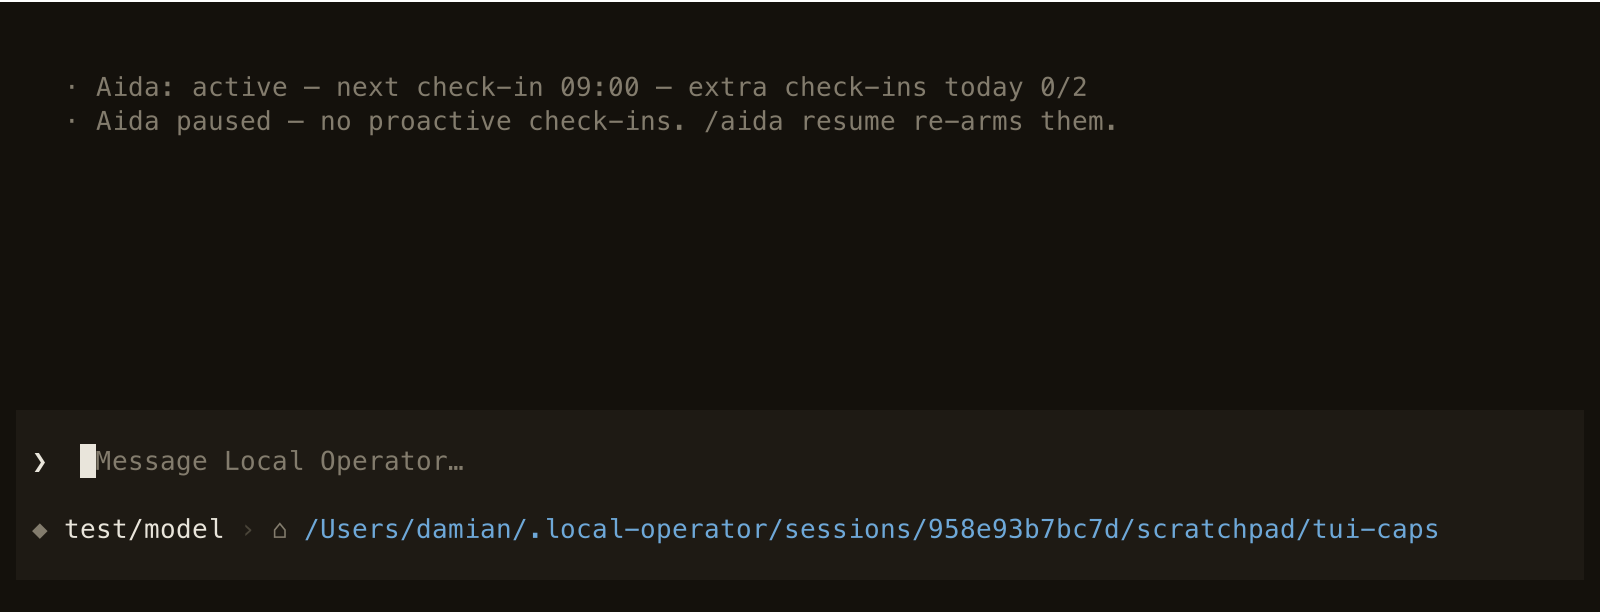
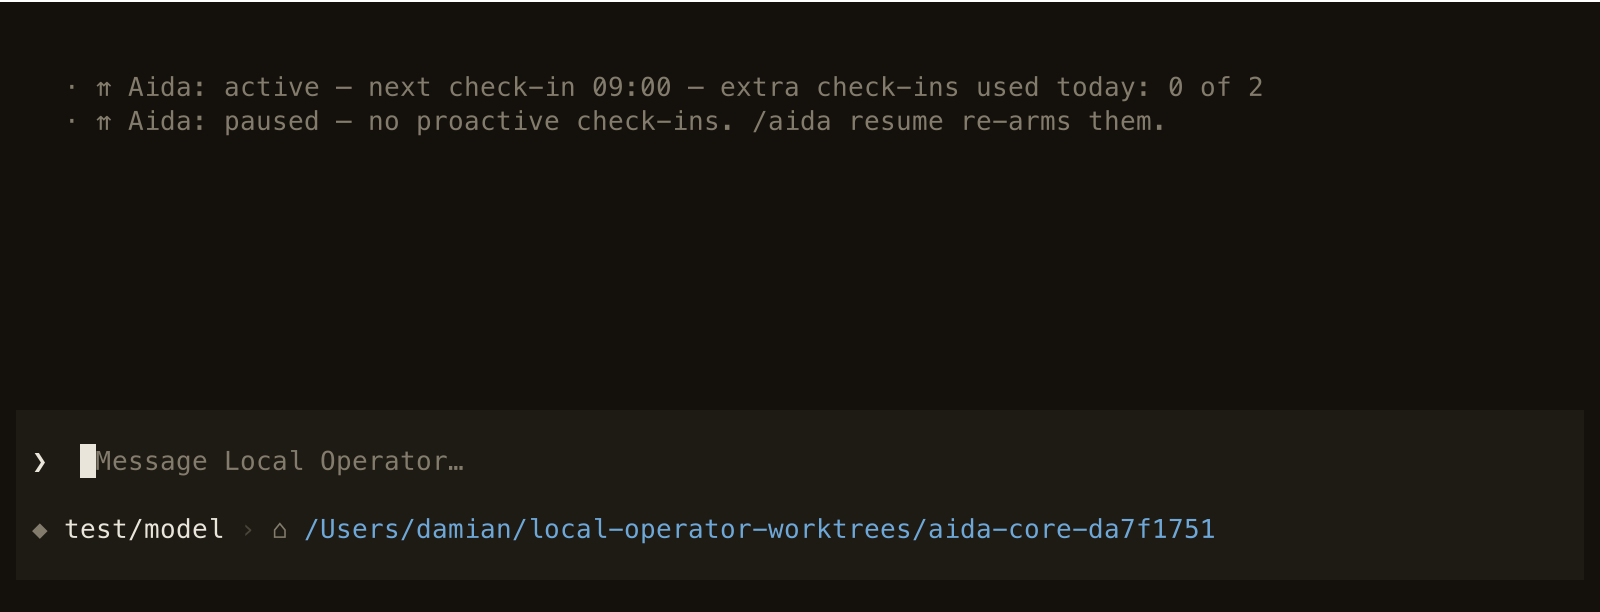
fix(site): batch-2 findings — hero CLS, body-start focus chain, Aida paused frame
- Figure gains optional width/height; the home hero renders 1280x900 for both
  theme variants so the box is reserved before the file arrives (U9): CLS
  0.288 desktop / 0.074 mobile → 0 on both widths, unthrottled and throttled.
- Search triggers register `data-search-trigger`; palette/shortcuts closes
  fall back to the visible trigger when the opening chain started from <body>
  (⌘K→Esc, ⌘K→shortcuts→Esc, ?→Esc now land on a control, not BODY) (Q3).
- aida-paused.png recaptured from feat/aida-core tip 8a1b2f828 ("extra
  check-ins used today: 0 of 2"); alt text follows the frame.

Gates: pnpm lint (biome + check-design-system) clean, pnpm check-types clean,
pnpm test 67/67, pnpm build 45/45.

Changed region(s): [[0.3438, 0.8382, 0.9062, 0.9003], [0.0625, 0.1242, 0.8125, 0.1552], [0.0625, 0.1863, 0.7188, 0.2173]]

diff --git a/src/components/search/search-provider.tsx b/src/components/search/search-provider.tsx
@@ -43,6 +43,27 @@ export function useSearch(): SearchContextValue {
 
 /** Chord map: key -> destination. `""` slug means the home page. */
 
+/**
+ * The registered search control — the fallback focus target for a close whose
+ * opening chain began with focus on <body> (⌘K or `?` on a fresh page). There
+ * is no opener to hand focus back to, and Radix's own default lands on <body>,
+ * which restarts the next Tab from the skip link. Trade-off: for those chains
+ * focus travels to the top bar even if the user's attention was elsewhere — a
+ * fixed, visible control is the most sensible reconstruction once focus left
+ * the page, and it beats a close that leaves the keyboard nowhere to go
+ * (QA round 2, Q3).
+ */
+function searchTriggerElement(): HTMLElement | null {
+	const candidates = Array.from(
+		document.querySelectorAll<HTMLElement>("[data-search-trigger]"),
+	);
+	return (
+		candidates.find((element) => element.getBoundingClientRect().width > 0) ??
+		candidates[0] ??
+		null
+	);
+}
+
 function isTypingTarget(target: EventTarget | null): boolean {
 	if (!(target instanceof HTMLElement)) return false;
 	const tag = target.tagName;
@@ -208,19 +229,25 @@ export function SearchProvider({
 					router.push(href);
 				}}
 				toast={showToast}
-				returnFocus={() => paletteReturn.current}
+				returnFocus={() =>
+					paletteReturn.current?.isConnected
+						? paletteReturn.current
+						: searchTriggerElement()
+				}
 			/>
 			<ShortcutsDialog
 				open={shortcutsOpen}
 				onOpenChange={setShortcutsOpen}
-				returnFocus={() =>
+				returnFocus={() => {
 					// Opened from the palette, its own remembered control is the
 					// palette's button, which is already unmounted — fall back to
-					// whatever opened the palette.
-					shortcutsReturn.current?.isConnected
-						? shortcutsReturn.current
-						: paletteReturn.current
-				}
+					// whatever opened the palette, then to the search trigger.
+					const fromPalette = shortcutsReturn.current;
+					if (fromPalette?.isConnected) return fromPalette;
+					const opener = paletteReturn.current;
+					if (opener?.isConnected) return opener;
+					return searchTriggerElement();
+				}}
 			/>
 			{/* Chord feedback while a target is not navigable yet. */}
 			<div

diff --git a/src/components/search/search-trigger.tsx b/src/components/search/search-trigger.tsx
@@ -12,6 +12,11 @@ import { useSearch } from "./search-provider";
  * The hint is written as ⌘K for Apple platforms and Ctrl K elsewhere, and it
  * is computed AFTER mount — rendering a platform-dependent string during SSR
  * would mismatch hydration.
+ *
+ * Both shapes carry `data-search-trigger`: the palette and shortcuts overlays
+ * fall back to the visible one when they close without an opener to return
+ * focus to (a ⌘K (or `?`) chain that started with focus on <body> — QA
+ * round 2, Q3).
  */
 export function SearchTrigger() {
 	const { openPalette } = useSearch();
@@ -29,6 +34,7 @@ export function SearchTrigger() {
 		<>
 			<button
 				type="button"
+				data-search-trigger
 				onClick={openPalette}
 				className="hidden h-9 w-56 items-center gap-2 rounded-sm border border-hairline bg-surface px-3 text-body-sm text-ink-dim transition-colors duration-fast ease-out-quart hover:border-control hover:text-ink sm:flex"
 				aria-label="Search docs"
@@ -41,6 +47,7 @@ export function SearchTrigger() {
 			</button>
 			<button
 				type="button"
+				data-search-trigger
 				onClick={openPalette}
 				aria-label="Search docs"
 				className="inline-flex size-9 items-center justify-center rounded-sm text-ink-muted transition-colors duration-fast hover:bg-surface hover:text-ink sm:hidden"

diff --git a/src/components/ui/figure.tsx b/src/components/ui/figure.tsx
@@ -15,6 +15,8 @@ export function Figure({
 	alt = "",
 	caption,
 	frame = false,
+	width,
+	height,
 }: {
 	src?: string;
 	/** Optional second file for the dark theme. Both are in the DOM and the
@@ -25,6 +27,14 @@ export function Figure({
 	alt?: string;
 	caption?: string;
 	frame?: boolean;
+	/** Intrinsic pixel size of the asset (both theme variants must share it),
+	 *  when known. Renders as width/height so the browser reserves the box
+	 *  before the file arrives: the home hero is above the fold, and without
+	 *  the reservation the page shifted ~250px on load (CLS 0.288 desktop /
+	 *  0.074 mobile; UX round 2, U9). Omitted for figures whose true size
+	 *  nobody has measured — a wrong reservation shifts too, just earlier. */
+	width?: number;
+	height?: number;
 }) {
 	if (!src) {
 		return (
@@ -42,6 +52,8 @@ export function Figure({
 			<img
 				src={src}
 				alt={alt}
+				width={width}
+				height={height}
 				loading="lazy"
 				className={cn(
 					"w-full rounded-lg border border-hairline",
@@ -54,6 +66,8 @@ export function Figure({
 				<img
 					src={darkSrc}
 					alt={alt}
+					width={width}
+					height={height}
 					loading="lazy"
 					className={cn(
 						"lo-theme-dark w-full rounded-lg border border-hairline",

diff --git a/src/app/page.tsx b/src/app/page.tsx
@@ -188,6 +188,8 @@ export default function HomePage() {
 						<Figure
 							src="/shots/ui/app-shell-chat-light.webp"
 							darkSrc="/shots/ui/app-shell-chat-dark.webp"
+							width={1280}
+							height={900}
 							alt="The desktop app with a chat beside the run details pane, which lists two running subagents and the session's to-dos."
 							caption="A working session in the desktop app: subagents running beside the conversation, with the to-dos in view."
 						/>

diff --git a/content/capabilities/always-on.md b/content/capabilities/always-on.md
@@ -114,7 +114,7 @@ day.
 Pausing is the everyday control — the receipt below is what you get back,
 and `/aida resume` re-arms the cadence.
 
-{% figure src="/shots/tui/aida-paused.png" alt="The /aida pause receipt: Aida paused — no proactive check-ins. /aida resume re-arms them." caption="/aida pause: no proactive check-ins until you resume." /%}
+{% figure src="/shots/tui/aida-paused.png" alt="The /aida pause receipt: Aida: paused — no proactive check-ins. /aida resume re-arms them." caption="/aida pause: no proactive check-ins until you resume." /%}
 
 To turn Aida off entirely, either switch works — and it is a zero-footprint
 switch: no session is created, no state file is written, no wake is armed:
